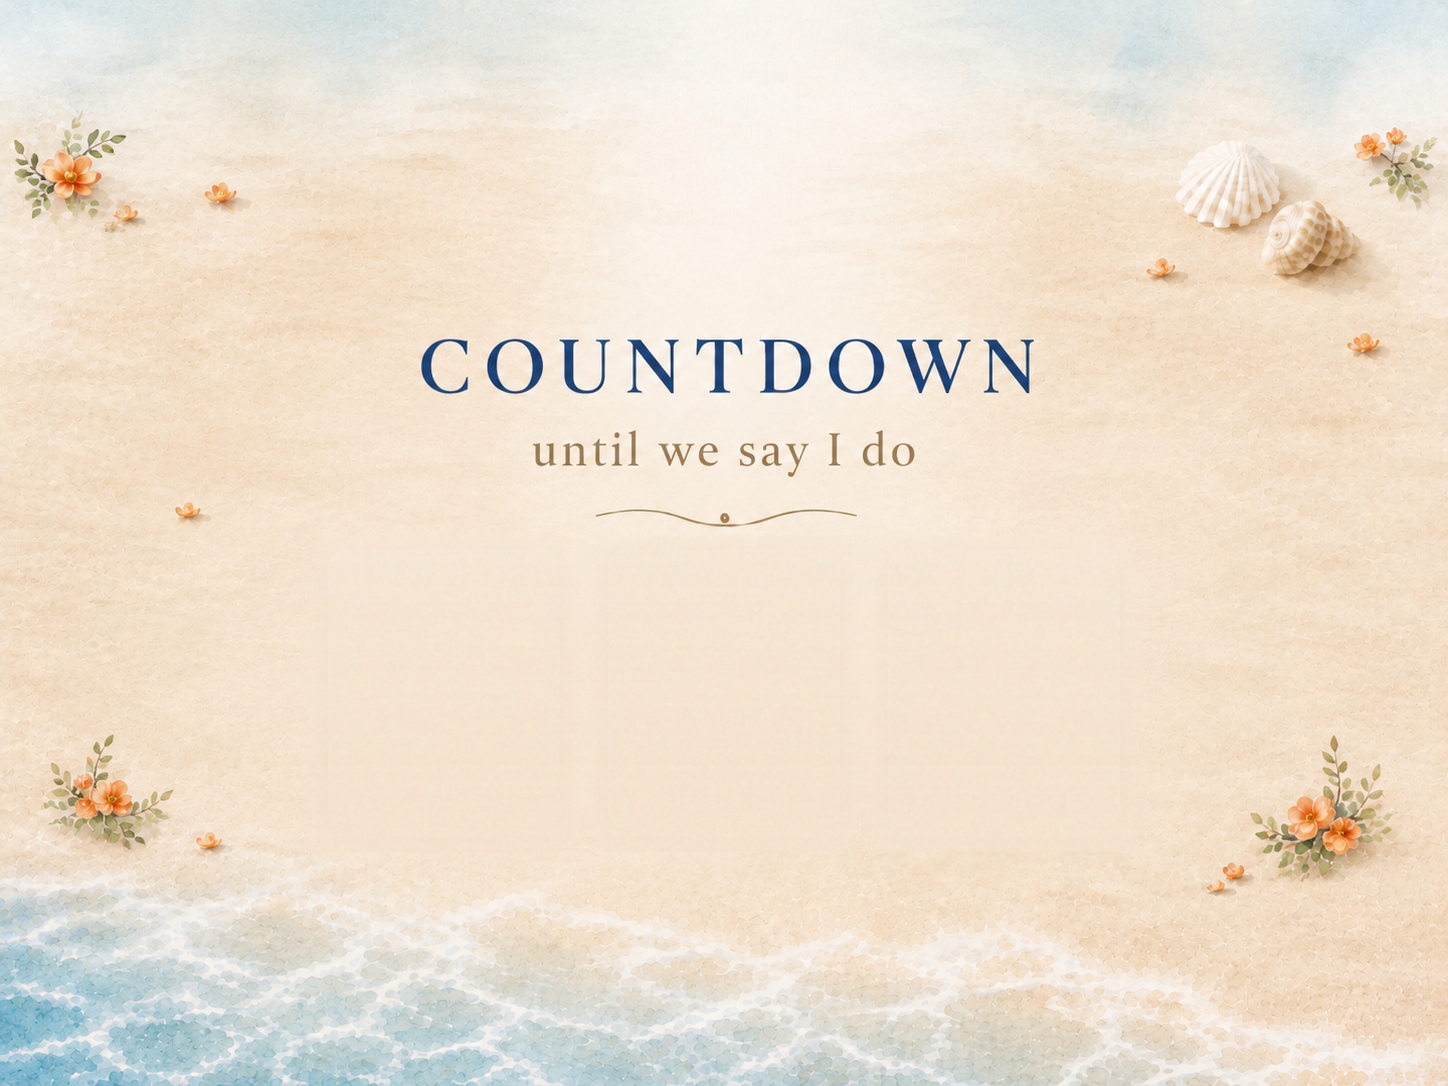
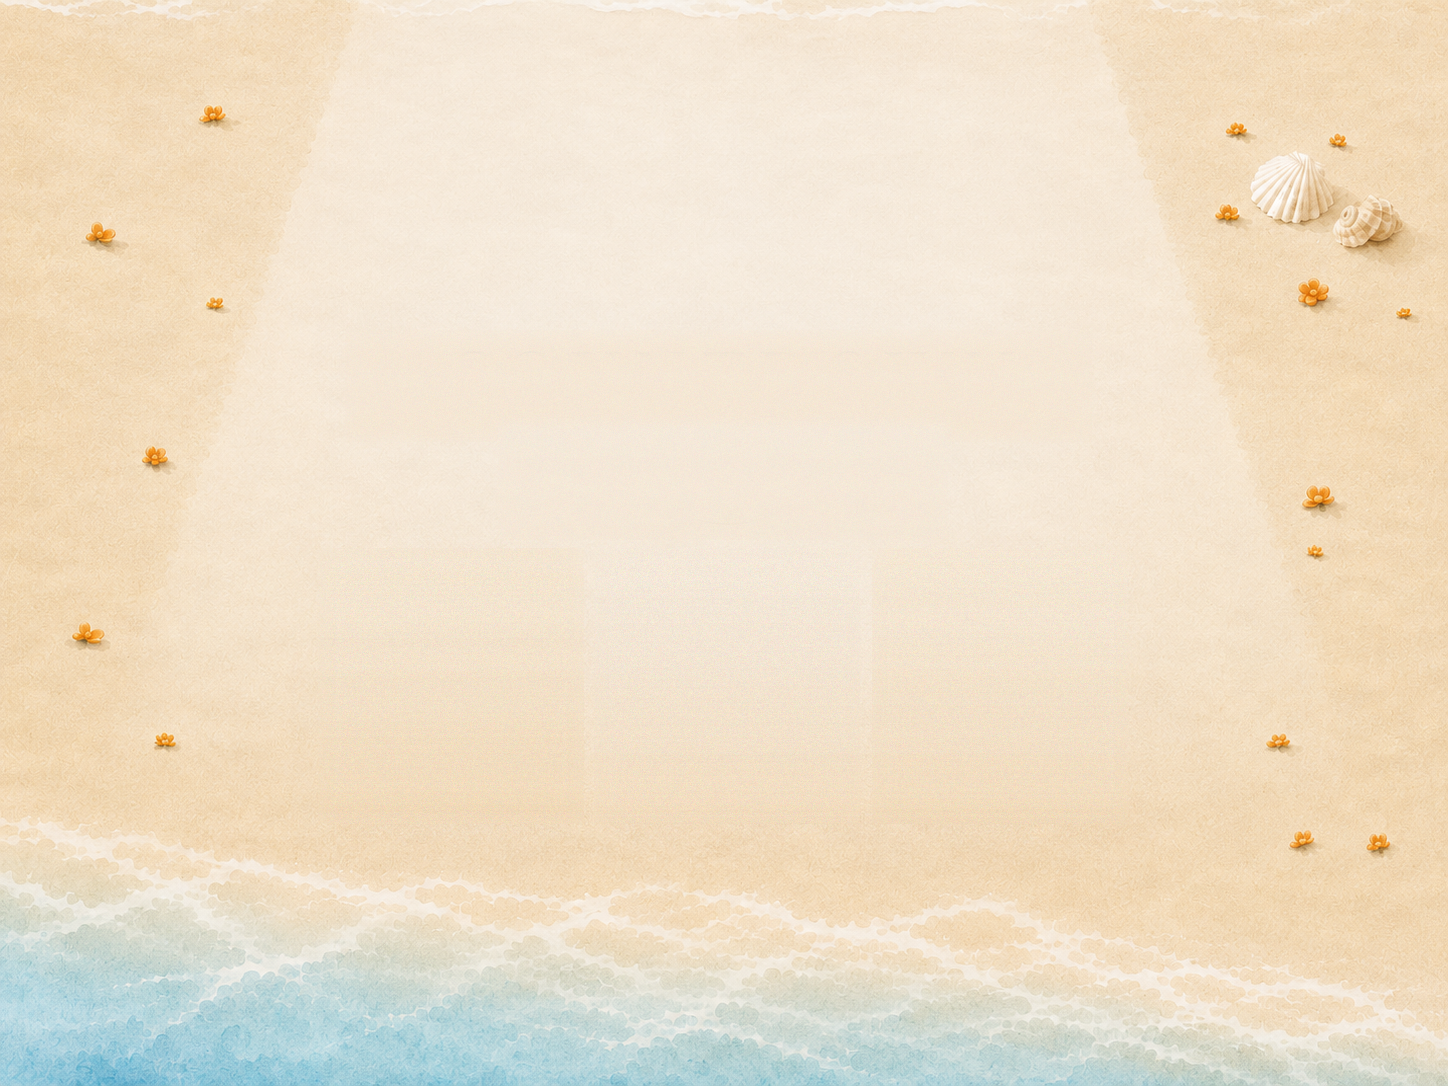
Update coastal countdown title layout

diff --git a/src/invitations/coastal-breeze/coastal-breeze.css b/src/invitations/coastal-breeze/coastal-breeze.css
@@ -2262,23 +2262,68 @@
 .coastal-theme .coastal-count-cards {
   position: absolute;
   left: 50%;
-  top: 50.6%;
-  width: 54.5%;
+  top: 51.5%;
+  width: 53.5%;
   display: flex;
   align-items: stretch;
-  gap: 3.5%;
+  gap: 3%;
   transform: translateX(-50%);
+}
+
+.coastal-theme .coastal-count-titleblock {
+  position: absolute;
+  left: 50%;
+  top: calc(12% + clamp(18px, 3.3vw, 48px));
+  width: 92%;
+  color: #9a7c48;
+  text-align: center;
+  pointer-events: none;
+  transform: translateX(-50%);
+}
+
+.coastal-theme .coastal-count-title {
+  margin: 0;
+  color: #1f3a6b;
+  font-family: 'Cormorant Garamond', Georgia, serif;
+  font-size: 5.8vw;
+  font-weight: 600;
+  letter-spacing: 0.2em;
+  line-height: 1;
+  text-indent: 0.2em;
+  text-transform: uppercase;
+}
+
+.coastal-theme .coastal-count-subtitle {
+  margin: 0.35em 0 0;
+  color: #9a7c48;
+  font-family: 'Cormorant Garamond', Georgia, serif;
+  font-size: 2.6vw;
+  font-style: italic;
+  font-weight: 500;
+  letter-spacing: 0.01em;
+  line-height: 1.05;
+}
+
+.coastal-theme .coastal-count-flourish {
+  display: block;
+  width: 16%;
+  height: auto;
+  margin: 0.7em auto 0;
+  color: #9a7c48;
 }
 
 .coastal-theme .coastal-count-card {
   flex: 1 1 0;
-  aspect-ratio: 229 / 250;
+  aspect-ratio: 228 / 252;
   display: flex;
   flex-direction: column;
   align-items: center;
+  justify-content: center;
+  gap: 0.45vw;
+  padding: 1.35vw 0 1.15vw;
   background: linear-gradient(180deg, #fdf9f1 0%, #f8f2e9 65%);
   border: 1px solid rgba(255, 255, 255, 0.7);
-  border-radius: 1.7vw;
+  border-radius: 1.6vw;
   box-shadow:
     0 1.3vw 2.8vw rgba(94, 68, 28, 0.16),
     0 0.2vw 0.6vw rgba(94, 68, 28, 0.08);
@@ -2288,7 +2333,7 @@
 }
 
 .coastal-theme .coastal-count-value {
-  height: 60%;
+  height: auto;
   display: flex;
   align-items: center;
   justify-content: center;
@@ -2300,7 +2345,7 @@
 }
 
 .coastal-theme .coastal-count-card-label {
-  flex: 1;
+  flex: 0 0 auto;
   display: flex;
   align-items: center;
   justify-content: center;

diff --git a/src/invitations/coastal-breeze/CoastalBreezeInvitation.jsx b/src/invitations/coastal-breeze/CoastalBreezeInvitation.jsx
@@ -248,6 +248,17 @@ export default function CoastalBreezeInvitation({ order, demo = false, publicSlu
       {weddingDate && (
         <section className="coastal-countdown coastal-art-section" aria-label="Countdown to the wedding">
           <img className="coastal-art-bg" src={coastalCountdownMonths} alt="" />
+          <div className="coastal-count-titleblock" aria-hidden="true">
+            <h2 className="coastal-count-title">Countdown</h2>
+            <p className="coastal-count-subtitle">until we say I do</p>
+            <svg className="coastal-count-flourish" viewBox="0 0 300 20" fill="none" stroke="currentColor" strokeWidth="1.4" strokeLinecap="round">
+              <path d="M12 7 q 7 3 0 6" />
+              <path d="M20 10 C 66 10 96 5 140 10" />
+              <circle cx="150" cy="10" r="3.5" />
+              <path d="M160 10 C 204 5 234 10 280 10" />
+              <path d="M288 7 q -7 3 0 6" />
+            </svg>
+          </div>
           <div className="coastal-count-cards" role="list">
             <div className="coastal-count-card" role="listitem" aria-label={`${timeLeft.months} months`}>
               <span className="coastal-count-value">{pad(timeLeft.months)}</span>